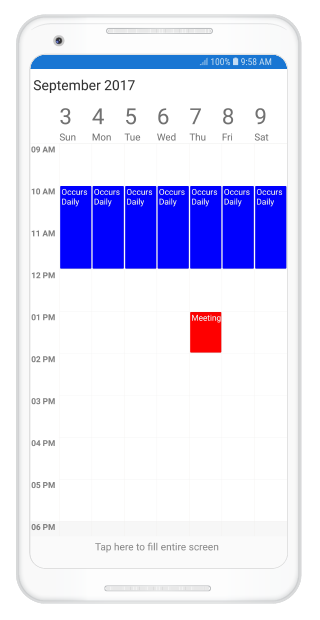
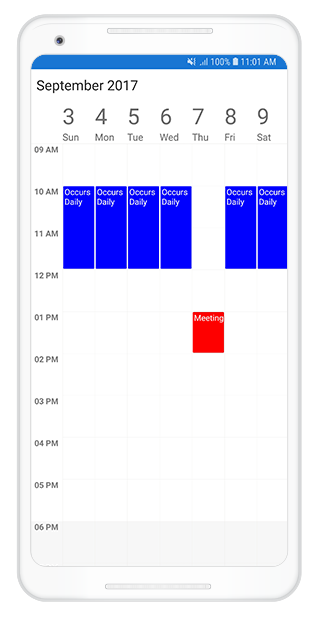
no message

diff --git a/xamarin-android/SfSchedule/Data-Bindings.md b/xamarin-android/SfSchedule/Data-Bindings.md
@@ -456,23 +456,25 @@ You can change any occurrence appointment which is an exception from the recurre
 You should add the created exception recurrence appointment to the schedule `ItemsSource`.
 {% tabs %}
 {% highlight c# %}
-  var recurrenceAppointment = new ScheduleAppointment
+var exceptionDate = Calendar.Instance;
+exceptionDate.Set(2017, 08, 07, 10, 0, 0);
+
+// Add Recurrence appointment 
+var recurrenceAppointment = new ScheduleAppointment
 {
 	StartTime = startTime,
 	EndTime = endTime,
 	Subject = "Daily Occurs",
 	Color = Color.Blue,
-	RecurrenceRule = "FREQ=DAILY;COUNT=20"
+	RecurrenceRule = "FREQ=DAILY;COUNT=20",
+        RecurrenceExceptionDates = new ObservableCollection<Calendar> { exceptionDate }
 };
 
 // Add exception appointment to the current recurrence pattern
-var exceptionDate = Calendar.Instance;
-exceptionDate.Set(2017, 08, 08, 10, 0, 0);
 var exceptionStartTime = Calendar.Instance;
 exceptionStartTime.Set(2017, 08, 07, 13, 0, 0);
 var exceptionEndTime = Calendar.Instance;
 exceptionEndTime.Set(2017, 08, 07, 14, 0, 0);
-
 var exceptionAppointment = new ScheduleAppointment
 {
 	StartTime = exceptionStartTime,
@@ -654,6 +656,10 @@ Calendar endTime = Calendar.Instance;
 //setting end time for the event
 endTime.Set(2017, 08, 03, 12, 0, 0);
 
+// Set exception date.
+var exceptionDate = Calendar.Instance;
+exceptionDate.Set(2017, 08, 07);
+
 //Adding schedule appointment in schedule appointment collection 
 var recurrenceAppointment = new Meeting
 {
@@ -662,11 +668,8 @@ var recurrenceAppointment = new Meeting
 	EventName = "Daily Occurs",
 	Color = Color.Blue,
 	RecurrenceRule = "FREQ=DAILY;COUNT=20",
+        RecurrenceExceptionDates = new ObservableCollection<Calendar> { exceptionDate }
 };
-
-// Set exception date.
-var exceptionDate = Calendar.Instance;
-exceptionDate.Set(2017, 08, 07);
 
 // Add exception appointment to the current recurrence series
 var exceptionStartTime = Calendar.Instance;
